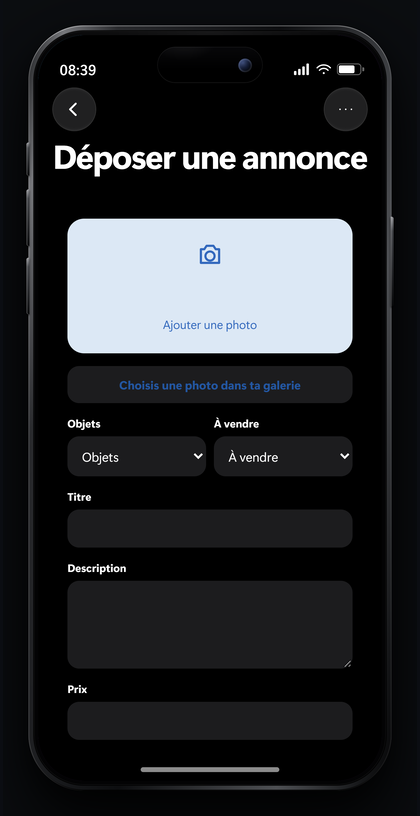
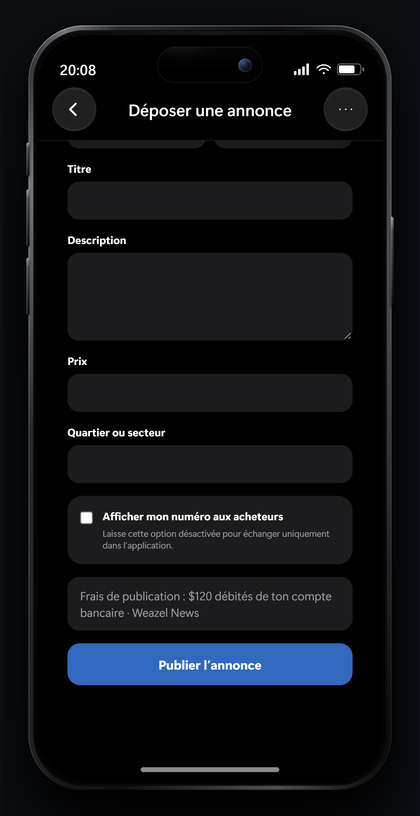
feat: add configurable marketplace posting fees

diff --git a/html/app.js b/html/app.js
@@ -15310,9 +15310,26 @@ function marketCompose() {
     '<label class="market-privacy"><input type="checkbox" id="market-form-phone"><span><strong>' +
       esc(L('ph.market_show_phone')) + '</strong><small>' + esc(L('ph.market_private_hint')) +
       '</small></span></label>' +
+    '<div class="market-posting-fee" id="market-posting-fee">' +
+      esc(L('ph.loading')) + '</div>' +
     '<button class="market-submit" type="submit">' + esc(L('ph.market_publish')) + '</button>' +
     '</form>');
   let photo = '';
+  const requestId = Date.now().toString(36) + '-' + Math.random().toString(36).slice(2);
+  let pricingReady = false;
+  const submit = byId('market-form').querySelector('.market-submit');
+  const fee = byId('market-posting-fee');
+  submit.disabled = true;
+  post('marketplace', { op: 'pricing' }).then((pricing) => {
+    if (!fee.isConnected) return;
+    if (!pricing || !pricing.ok) { fee.textContent = L('ph.market_e_payment'); return; }
+    pricingReady = true;
+    submit.disabled = false;
+    fee.textContent = pricing.fee > 0
+      ? L('ph.market_posting_fee').replace('{amount}', money(pricing.fee)) +
+        (pricing.label ? ' · ' + pricing.label : '')
+      : L('ph.market_posting_free');
+  });
   byId('market-pick').addEventListener('click', () => pickPhoto((url) => {
     photo = url;
     byId('market-photo').innerHTML = photoImg(url, 'market-form-preview');
@@ -15321,11 +15338,12 @@ function marketCompose() {
     byId('market-period-wrap').classList.toggle('hidden', e.target.value !== 'rent'));
   byId('market-form').addEventListener('submit', async (e) => {
     e.preventDefault();
+    if (!pricingReady) return;
     const form = byId('market-form');
-    const submit = form.querySelector('.market-submit');
     submit.disabled = true;
     const deal = byId('market-form-deal').value;
     const res = await post('marketplace', { op: 'create',
+      requestId,
       kind: byId('market-form-kind').value, deal,
       title: byId('market-form-title').value, description: byId('market-form-description').value,
       price: Number(byId('market-form-price').value), period: deal === 'rent'

diff --git a/tools/make-shots.js b/tools/make-shots.js
@@ -137,14 +137,18 @@ const SHOTS = [
     script: `${SETUP}
       await open('marketplace', 400);
       marketCompose();
+      await new Promise((r) => setTimeout(r, 200));
       if (!document.getElementById('market-form-phone'))
-        throw new Error('number privacy choice is missing');`,
+        throw new Error('number privacy choice is missing');
+      document.getElementById('appbody').scrollTop =
+        document.getElementById('appbody').scrollHeight;`,
   },
   {
     name: 'marketplace-flow', assert: true,
     script: `${SETUP}
       await open('marketplace', 300);
       marketCompose();
+      await new Promise((r) => setTimeout(r, 200));
       if (byId('market-form-phone').checked) throw new Error('number was public by default');
       byId('market-form-title').value = 'Local listing';
       byId('market-form-description').value = 'Available today';

diff --git a/html/style.css b/html/style.css
@@ -15424,6 +15424,8 @@ body.inframe.dark .uichip.negative { color: var(--fruitos-red); }
 .market-privacy input { margin: 3px 0 0; accent-color: #3268BD; }
 .market-privacy strong, .market-privacy small { display: block; }
 .market-privacy small { margin-top: 4px; color: var(--app-label2); font-weight: 400; line-height: 1.35; }
+.market-posting-fee { padding: 11px 13px; border-radius: 12px; background: var(--app-card);
+  color: var(--app-label2); font-size: 12px; line-height: 1.4; }
 .market-submit { width: 100%; padding: 13px; border: 0; border-radius: 13px;
   background: #3268BD; color: #fff; font: inherit; font-size: 13px; font-weight: 700; }
 .market-submit:disabled { opacity: .5; }

diff --git a/tools/test-marketplace.py b/tools/test-marketplace.py
@@ -8,6 +8,31 @@ ROOT = Path(__file__).resolve().parent.parent
 lua = lua54.LuaRuntime(unpack_returned_tuples=True)
 lua.execute(r"""
 Config = { Marketplace = { enabled = true, maxActive = 8, maxPrice = 100000000 } }
+Money = { player = 1000, society = 0, failCredit = false, failRefund = false,
+    failDebit = false, failReverse = false, throwCredit = false }
+Bridge = {
+    RemoveMoney = function(_, amount, account)
+        if account ~= 'bank' or Money.failDebit or Money.player < amount then return false end
+        Money.player = Money.player - amount
+        return true
+    end,
+    AddMoney = function(_, amount, account)
+        if account ~= 'bank' or Money.failRefund then return false end
+        Money.player = Money.player + amount
+        return true
+    end,
+    AddSociety = function(_, amount)
+        if Money.throwCredit then error('simulated credit exception') end
+        if Money.failCredit then return false end
+        Money.society = Money.society + amount
+        return true
+    end,
+    RemoveSociety = function(_, amount)
+        if Money.failReverse then return false end
+        Money.society = Money.society - amount
+        return true
+    end,
+}
 Players = {
     [1] = { citizenid = 'seller', name = 'Local seller', source = 1 },
     [2] = { citizenid = 'buyer', name = 'Local buyer', source = 2 },
@@ -46,6 +71,8 @@ Thread = { id = 31, listing_id = 9, buyer_cid = 'buyer', seller_cid = 'seller',
     title = 'Sultan RS', status = 'active', expires_at = Row.expires_at }
 LastInsert = nil
 LastQuery = nil
+InsertFail = false
+ActivationFail = false
 MySQL = {
     query = { await = function(sql, args)
         LastQuery = { sql = sql, args = args }
@@ -72,10 +99,13 @@ MySQL = {
     end },
     insert = { await = function(sql, args)
         LastInsert = { sql = sql, args = args }
+        if InsertFail then return nil end
         return 47
     end },
     update = { await = function(sql, args)
         if sql:find('vphone_market_listings') then
+            if sql:find("SET status = 'active'") then return ActivationFail and 0 or 1 end
+            if sql:find("status = 'closed'") and sql:find("status = 'pending'") then return 1 end
             return args[1] == Row.id and args[2] == Row.seller_cid and 1 or 0
         end
         return 1
@@ -161,6 +191,50 @@ new = run(1, "{ op = 'create', kind = 'items', deal = 'sale', title = 'x',"
              " description = 'y', price = 10 }")
 check(new.ok and g.LastInsert.args[11] == 0,
       'new listings default to hiding the seller number')
+
+check(run(1, "{ op = 'pricing' }").fee == 0, 'free posting is the default')
+g.Config.Marketplace.postingFee = 120
+check(run(1, "{ op = 'pricing' }").error == 'payment',
+      'paid posting requires a configured account')
+g.Config.Marketplace.revenueAccount = 'society_newspaper'
+g.Config.Marketplace.revenueLabel = 'The Daily Globe'
+pricing = run(1, "{ op = 'pricing' }")
+check(pricing.fee == 120 and pricing.label == 'The Daily Globe'
+      and pricing.account is None, 'posting quote exposes fee and label only')
+
+listing = "{ op = 'create', kind = 'items', deal = 'sale', title = 'x', description = 'y', price = 10 }"
+g.InsertFail = True
+check(run(1, listing).error == 'payment' and g.Money.player == 1000,
+      'database insert failure does not debit the seller')
+g.InsertFail = False
+g.Money.failDebit = True
+check(run(1, listing).error == 'nomoney' and g.Money.player == 1000,
+      'failed debit never credits the beneficiary')
+g.Money.failDebit = False
+g.Money.failCredit = True
+check(run(1, listing).error == 'noaccount' and g.Money.player == 1000
+      and g.Money.society == 0, 'failed society credit refunds seller')
+g.Money.failCredit = False
+g.Money.throwCredit = True
+check(run(1, listing).error == 'payment' and g.Money.player == 880
+      and g.Money.society == 0,
+      'unknown credit outcome is held for operator review without speculative refund')
+g.Money.throwCredit = False
+g.Money.player = 1000
+g.ActivationFail = True
+check(run(1, listing).error == 'payment' and g.Money.player == 1000
+      and g.Money.society == 0, 'failed publication reverses both sides')
+g.ActivationFail = False
+check(run(1, listing).ok and g.Money.player == 880 and g.Money.society == 120,
+      'paid publication debits once and credits configured society once')
+retry = "{ op = 'create', requestId = 'post-unique-123', kind = 'items', deal = 'sale', title = 'x', description = 'y', price = 10 }"
+first = run(1, retry)
+again = run(1, retry)
+check(first.ok and again.ok and first.id == again.id
+      and g.Money.player == 760 and g.Money.society == 240,
+      'retrying the same submission does not double charge')
+check(run(1, "{ op = 'create', requestId = 'bad!', kind = 'items', deal = 'sale', title = 'x', description = 'y', price = 10 }").error == 'invalid',
+      'malformed posting token is rejected')
 
 source = (ROOT / 'server' / 'main.lua').read_text(encoding='utf-8')
 def extract(name):

diff --git a/tools/check-fr.py b/tools/check-fr.py
@@ -57,6 +57,7 @@ HOMOGRAPHS = {
     'masque', 'active', 'affiche', 'autorise', 'autorises', 'expire', 'quitte', 'annule',
     'paye', 'publie', 'demandes', 'ajoute', 'efface', 'bloque', 'modifie', 'verses',
     'propose', 'dure', 'abonne', 'indique', 'certifie', 'like', 'likes', 'matche',
+    'conserve',
     # 'Aucune note' is the noun and is correct; 'noté' is the participle. Both are real.
     'note', 'notes',
     # 'Le tirage commence' is the present tense; 'a commencé' is the participle.

diff --git a/tools/make-preview.py b/tools/make-preview.py
@@ -590,6 +590,7 @@ const HANDLERS = {
 
   marketplace: (b) => {
     const listing = DB.marketListings.find((x) => x.id === Number(b.id));
+    if (b.op === 'pricing') return { ok: true, fee: 120, label: 'Weazel News' };
     if (b.op === 'feed') {
       const q = String(b.query || '').toLowerCase();
       return { ok: true, listings: DB.marketListings.filter((x) => x.status === 'active'

diff --git a/README.md b/README.md
@@ -123,7 +123,10 @@ Twenty-two are installed to begin with: Phone, Messages, Contacts, **911**, **Al
 - **VineMarket** (free download): local classifieds with sale and rental categories, optional
   gallery photo, neighborhood, bounded search and private buyer-seller messages. The seller
   can expose their number explicitly or leave it hidden. Private calls mask both numbers.
-  `Config.Marketplace` controls listing limits, price ceiling, page size and expiry.
+  `Config.Marketplace` controls listing limits, price ceiling, page size and expiry. Set
+  `postingFee` above zero and `revenueAccount` to an existing society account to charge the
+  seller's bank when publishing. `revenueLabel` optionally names that recipient in the form.
+  The default fee is zero; purchases and ownership transfers remain in game.
 
 - **Phone**: keypad, favourites, history, voicemail, speaker mode heard by nearby players, and group calls of up to five. On one bar the line breaks up - the voice really cuts out, both ends - and a bad enough line can drop the call.
 - **911**: pick a service, pick a reason, and everybody working that service gets it on their own phone with a map pin they can drive to. Installed by default and not removable. The caller is told when somebody takes it, so silence never has to be guessed at. Anonymous reporting, per-service duty and grade rules, and an API so a shop till or a downed player can raise one.
@@ -1326,7 +1329,10 @@ Vingt-deux sont installées au départ : Téléphone, Messages, Contacts, **911*
   facultative depuis la galerie, quartier, recherche limitée et messagerie privée entre
   acheteur et vendeur. Le vendeur peut afficher son numéro explicitement ou le garder masqué.
   Les appels privés masquent les deux numéros. `Config.Marketplace` règle les limites
-  d'annonces, le prix maximal, la taille du fil et l'expiration.
+  d'annonces, le prix maximal, la taille du fil et l'expiration. Définissez `postingFee`
+  au-dessus de zéro et `revenueAccount` sur un compte d'entreprise existant pour débiter
+  la banque du vendeur à la publication. `revenueLabel` affiche facultativement le nom du
+  bénéficiaire. Le tarif vaut zéro par défaut ; achats et transferts restent en jeu.
 
 - **Téléphone** : clavier, favoris, historique, répondeur, haut-parleur entendu par les joueurs autour, et appels de groupe jusqu'à cinq. À une barre de réseau la ligne coupe — la voix se coupe vraiment, des deux côtés — et une ligne assez mauvaise peut faire raccrocher.
 - **911** : on choisit un service, un motif, et toutes les personnes en poste dans ce service reçoivent l'alerte sur leur téléphone avec un point sur la carte. Installée par défaut, impossible à supprimer. L'appelant est prévenu quand quelqu'un prend l'appel, pour ne jamais avoir à interpréter le silence. Signalement anonyme, règles de service et de grade par service, et une API pour qu'une caisse de magasin ou un joueur à terre puisse lancer une alerte.

diff --git a/ERROR_LOG.md b/ERROR_LOG.md
@@ -2887,3 +2887,31 @@ The brackets truncate the return to one value, which is what "am I at a desk" ac
 it is compared against `None` from Python. Checking the falsy case as well as the truthy one is
 what exposed it: the wrong answer was truthy, so a suite that only asserted the success path
 would have been green.
+
+---
+
+## [2026-09-23 20:07] — marketplace flow asserted before pricing loaded
+
+**Context:** browser preview for posting a VineMarket listing after adding the publication fee quote.
+
+**Error:** the flow assertion reported that the published listing did not appear.
+
+**Root cause:** the form now waits for a server pricing response before enabling submission. The preview script submitted immediately after opening the form.
+
+**Fix:** the preview checks wait for the pricing response before submitting or capturing the form.
+
+**Prevention:** when a form adds an asynchronous prerequisite, browser flows must wait for that state rather than assume a synchronous submit path.
+
+---
+
+## [2026-09-23 20:09] — French spelling check flagged a real verb pair
+
+**Context:** running the full fast suite after adding publication payment messages.
+
+**Error:** `check-fr` flagged `conserve` and `conservé` as inconsistent.
+
+**Root cause:** one string uses the present-tense verb, while the new payment message uses the past participle. Both spellings are correct in context.
+
+**Fix:** listed `conserve` with the other verb pairs in the spelling check's homograph set.
+
+**Prevention:** inspect each spelling conflict in context before changing user-facing French or extending the homograph set.

diff --git a/CHANGELOG.md b/CHANGELOG.md
@@ -4,6 +4,25 @@ All notable changes to v-phone are documented here.
 
 ---
 
+## Unreleased
+
+### Added
+
+- **Optional VineMarket posting fees.** The server sets the publication fee and the recipient
+  society account; the form shows the fee before posting. A failed recipient credit refunds
+  the seller, and listings stay hidden until payment and publication succeed. Retrying the
+  same submission cannot charge twice. Free posting remains the default.
+
+### Ajouts
+
+- **Frais de publication facultatifs sur VineMarket.** Le serveur définit le montant et le
+  compte d'entreprise bénéficiaire ; le formulaire affiche le tarif avant publication. Si
+  le crédit échoue, le vendeur est remboursé et l'annonce reste invisible jusqu'à la réussite
+  du paiement et de la publication. Un nouvel essai du même envoi ne facture pas deux fois.
+  La gratuité reste le réglage par défaut.
+
+---
+
 ## [1.7.11] - 2026-09-23
 
 ### Added
